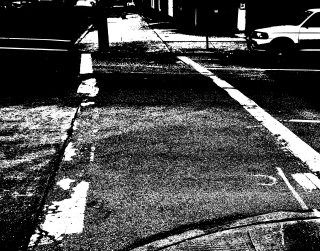
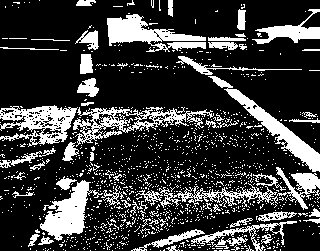
Adding parameter for number of pictures to save, also the traffic background

diff --git a/PatternEvolution/genPattern.py b/PatternEvolution/genPattern.py
@@ -34,13 +34,14 @@ import argparse
 # options parser to set all of these variables from the command line
 parser = argparse.ArgumentParser(formatter_class=argparse.ArgumentDefaultsHelpFormatter)
 parser.add_argument('--mode', type=int, default=0)
-parser.add_argument('--swatchSize', default=9)
-parser.add_argument('--backgroundWidth', default=30)
-parser.add_argument('--backgroundHeight', default=30)
-parser.add_argument('--popSize', default=10)
-parser.add_argument('--numGens', default=20000)
-parser.add_argument('--backgroundType', default=0)
-parser.add_argument('--random', default=64)
+parser.add_argument('--swatchSize', type=int, default=9)
+parser.add_argument('--backgroundWidth', type=int, default=30)
+parser.add_argument('--backgroundHeight', type=int, default=30)
+parser.add_argument('--popSize', type=int, default=10)
+parser.add_argument('--numGens', type=int, default=20000)
+parser.add_argument('--backgroundType', type=int, default=0)
+parser.add_argument('--random', type=int, default=64)
+parser.add_argument('--numPics', type=int, default=1000)
 args = parser.parse_args()
 
 # a switch... 0 for Translational, 1 for zoom, 2 for rotation
@@ -62,24 +63,27 @@ random.seed(seed)
 
 
 # x dimension of OF: -1 for min, 1 for max
-X_FUN = 1.0 
+X_FUN = -1.0 
 
 # for binary representations of Black and White (0,0,0) and (255,255,255)
 BLACK = 0
 WHITE = 255
 
-DELTA = 1               # num pixels translated
+DELTA = 1                                   # num pixels translated
 
-NUM_PIX = 10000          # 1 in 1000 individuals saved. 
+NUM_PIX = args.numPics                      # 1 in 1000 individuals saved. 
 
-ts = time.time()        # create unique image directory
-val = 0                 # hack to keep track of generation number
+ts = time.time()                            # create unique image directory
+val = 0                                     # hack to keep track of generation number
+
+os.makedirs('./Images/' + str(ts)[0:10] )   # save to new directory
+f = open('./Images/' + str(ts)[0:10] + '/parameters.txt', 'w')
 
 # OF of a white swatch moving on a black background 
 # BASELINE = calculateBaselineTranslationalAvg();
 BASELINE = 0
 
-# 0 for all black, 1 for striped, 2 for random
+# 0 for all black, 2 for striped, 1 for random, 3 for traffic crossing
 chooseBackground = args.backgroundType
 
 # For each pixel, with probability indpb flip a coin to assign a value
@@ -136,6 +140,8 @@ elif (chooseBackground == 2):
     background = genStripedImage(background_height, background_width)
 else:
     background = cv2.imread('traffic_bw.jpg')
+    background_width = 320
+    background_height = 240
 
 # attribute generation
 # to generate the first individual, called SWATCH_NUM_PIXELS_WIDTH * SWATCH_NUM_PIXELS_HEIGHT times
@@ -211,31 +217,6 @@ def calculatedTranslationalAvg_refactored(individual):
         total = cv2.sumElems(flow)
         xFlowTotal += total[0] / (background.shape[0]*background.shape[1])
         yFlowTotal += total[1] / (background.shape[0]*background.shape[1])
-
-    # hack to see which generation we're on. val is set to 0 as start up, 
-    global val 
-    val = val + 1
-    # when val is first incremented, we create a directory. 
-    if (val == 1):
-        os.makedirs('./Images/' + str(ts)[0:10] )
-        f = open('./Images/' + str(ts)[0:10] + '/parameters.txt', 'w')
-        f.write("Mode (0 trans, 1 zoom, 2 rotate): " + str(option) + '\n')
-        f.write("Swatch Size:" + str(SWATCH_NUM_PIXELS_HEIGHT) + 'by' + str(SWATCH_NUM_PIXELS_WIDTH) + '\n')
-        f.write("Background Size:" + str(background_height) + 'by' + str(background_width) + '\n')
-        f.write("Background Type (0 black, 1 striped, 2 random):" + str(chooseBackground) + '\n')
-        f.write("Popsize:" + str(POPSIZE) + '\n')
-        f.write("Number of generations:" + str(NUM_GENS) + '\n')
-        f.write("Min or max:" + str(X_FUN) + '\n')
-        f.write("Random seed:" + str(seed) + '\n')
-        f.write("y_cood of motion:" + str(background_height/2 - SWATCH_NUM_PIXELS_HEIGHT/2))
-        f.write("x_cood of motion (range):" + str(0) + "-" + str(background_width - SWATCH_NUM_PIXELS_WIDTH))
-
-
-        cv2.imwrite('./Images/' + str(ts)[0:10]  + '/pic_trans_BACKGROUND.png', background)
-
-    # for every NUM_PIX image generated from then on, we save that image 
-    if (val % NUM_PIX == 0):
-        cv2.imwrite('./Images/' + str(ts)[0:10]  + '/pic_trans_' + str(val) + '.png', swatch)
 
     # return tuple of average OF 
     return (xFlowTotal/trials, yFlowTotal/trials)
@@ -317,28 +298,6 @@ def calculatedZoomAvg(individual):
 
     #imshow(prev_im_rep)
     #show()  
-
-    # hack to keep track of generation + picture number
-    global val 
-    val = val + 1
-    # first time running code, create directory
-    if (val == 1):
-        os.makedirs('./Images/' + str(ts)[0:10] )
-        f = open('./Images/' + str(ts)[0:10] + '/parameters.txt', 'w')
-        f.write("Mode (0 trans, 1 zoom, 2 rotate): " + str(option) + '\n')
-        f.write("Swatch Size:" + str(SWATCH_NUM_PIXELS_HEIGHT) + 'by' + str(SWATCH_NUM_PIXELS_WIDTH) + '\n')
-        f.write("Background Size:" + str(background_height) + 'by' + str(background_width) + '\n')
-        f.write("Background Type (0 black, 1 striped, 2 random):" + str(chooseBackground) + '\n')
-        f.write("Popsize:" + str(POPSIZE) + '\n')
-        f.write("Number of generations:" + str(NUM_GENS) + '\n')
-        f.write("Min or max:" + str(X_FUN) + '\n')
-        f.write("Random seed:" + str(seed) + '\n')
-
-        cv2.imwrite('./Images/' + str(ts)[0:10]  + '/pic_zoom_BACKGROUND.png', background)
-
-    # print NUM_PIXth Swatch
-    if (val % NUM_PIX == 0):
-        cv2.imwrite('./Images/' + str(ts)[0:10]  + '/pic_zoom_' + str(val) + '.png', swatch)
 
     # ZOOM
     #----------------------------------------------------------------------
@@ -492,28 +451,6 @@ def calculatedRotAvg(individual):
 
     # calculate optical flow
     flow = cv2.calcOpticalFlowFarneback(prv, nxt, 0.5, 4, 8, 2, 7, 1.5, cv2.OPTFLOW_FARNEBACK_GAUSSIAN)
-    
-    # hack to keep track of generation + picture number
-    global val 
-    val = val + 1
-    # first time running code, create directory
-    if (val == 1):
-        os.makedirs('./Images/' + str(ts)[0:10] )
-        f = open('./Images/' + str(ts)[0:10] + '/parameters.txt', 'w')
-        f.write("Mode (0 trans, 1 zoom, 2 rotate): " + str(option) + '\n')
-        f.write("Swatch Size:" + str(SWATCH_NUM_PIXELS_HEIGHT) + 'by' + str(SWATCH_NUM_PIXELS_WIDTH) + '\n')
-        f.write("Background Size:" + str(background_height) + 'by' + str(background_width) + '\n')
-        f.write("Background Type (0 black, 1 striped, 2 random):" + str(chooseBackground) + '\n')
-        f.write("Popsize:" + str(POPSIZE) + '\n')
-        f.write("Number of generations:" + str(NUM_GENS) + '\n')
-        f.write("Min or max:" + str(X_FUN) + '\n')
-        f.write("Random seed:" + str(seed) + '\n')
-
-        cv2.imwrite('./Images/' + str(ts)[0:10]  + '/pic_zoom_BACKGROUND.png', background)
-
-    # print NUM_PIXth Swatch
-    if (val % NUM_PIX == 0):
-        cv2.imwrite('./Images/' + str(ts)[0:10]  + '/pic_zoom_' + str(val) + '.png', swatch)
 
     zoom_val = getRotationalOpticalFlow(prv, nxt)
 
@@ -523,12 +460,45 @@ def calculatedRotAvg(individual):
 # Returns the computed OF value for fitness calculations
 # depending on which 'option' is set 
 def evalMax(individual):
+    swatch = numpy.empty((SWATCH_NUM_PIXELS_HEIGHT,SWATCH_NUM_PIXELS_WIDTH,3), numpy.uint8)
+    
+    for i in range(0, SWATCH_NUM_PIXELS_HEIGHT):
+        for j in range (0, SWATCH_NUM_PIXELS_WIDTH):
+            swatch[i][j] = numpy.array([individual[SWATCH_NUM_PIXELS_HEIGHT * i + j],individual[SWATCH_NUM_PIXELS_HEIGHT * i + j], individual[SWATCH_NUM_PIXELS_HEIGHT * i + j]])
+
+    # hack to see which generation we're on. val is set to 0 as start up, 
+    global val 
+    global f
+    # when val is first incremented, we create a directory. 
+    if (val == 0):
+        f.write("Mode (0 trans, 1 zoom, 2 rotate): " + str(option) + '\n')
+        f.write("Swatch Size:" + str(SWATCH_NUM_PIXELS_HEIGHT) + 'by' + str(SWATCH_NUM_PIXELS_WIDTH) + '\n')
+        f.write("Background Size:" + str(background_height) + 'by' + str(background_width) + '\n')
+        f.write("Background Type (0 black, 1 striped, 2 random):" + str(chooseBackground) + '\n')
+        f.write("Popsize:" + str(POPSIZE) + '\n')
+        f.write("Number of generations:" + str(NUM_GENS) + '\n')
+        f.write("Min or max:" + str(X_FUN) + '\n')
+        f.write("Random seed:" + str(seed) + '\n')
+        f.write("y_cood of motion:" + str(background_height/2 - SWATCH_NUM_PIXELS_HEIGHT/2) + '\n')
+        f.write("x_cood of motion (range):" + str(0) + "-" + str(background_width - SWATCH_NUM_PIXELS_WIDTH) + '\n')
+
+
+        cv2.imwrite('./Images/' + str(ts)[0:10]  + '/pic_trans_BACKGROUND.png', background)
+
     if (option == 0):
         (h,w) = calculatedTranslationalAvg_refactored(individual)
     elif (option == 1):
         h = calculatedZoomAvg(individual)
     else:
         h = calculatedRotAvg(individual)
+
+    # for every NUM_PIX image generated from then on, we save that image 
+    if (val % NUM_PIX == 0):
+        cv2.imwrite('./Images/' + str(ts)[0:10]  + '/pic_trans_' + str(val) + '.png', swatch)
+        f.write(str(val) + ', ' + str(h) + '\n')
+
+    val = val + 1
+
     return h,
 
 # cross over function -- provided by DEAP
@@ -595,6 +565,8 @@ def main():
                 10:SWATCH_NUM_PIXELS_WIDTH+10] = PIC_new
 
         #save
+        x = evalMax(hof[0])
+        f.write('FINAL, ' + str(x[0]) + '\n')
         cv2.imwrite('./Images/' + str(ts)[0:10]  + '/pic_FINAL.png', PIC_new)
         
     return pop, stats, hof
